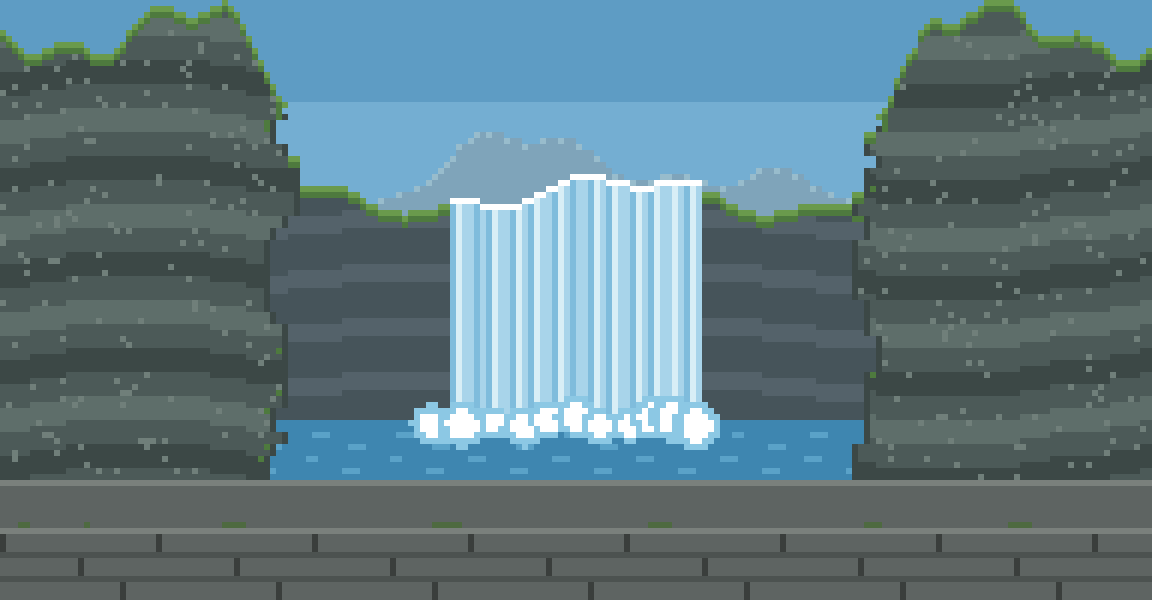
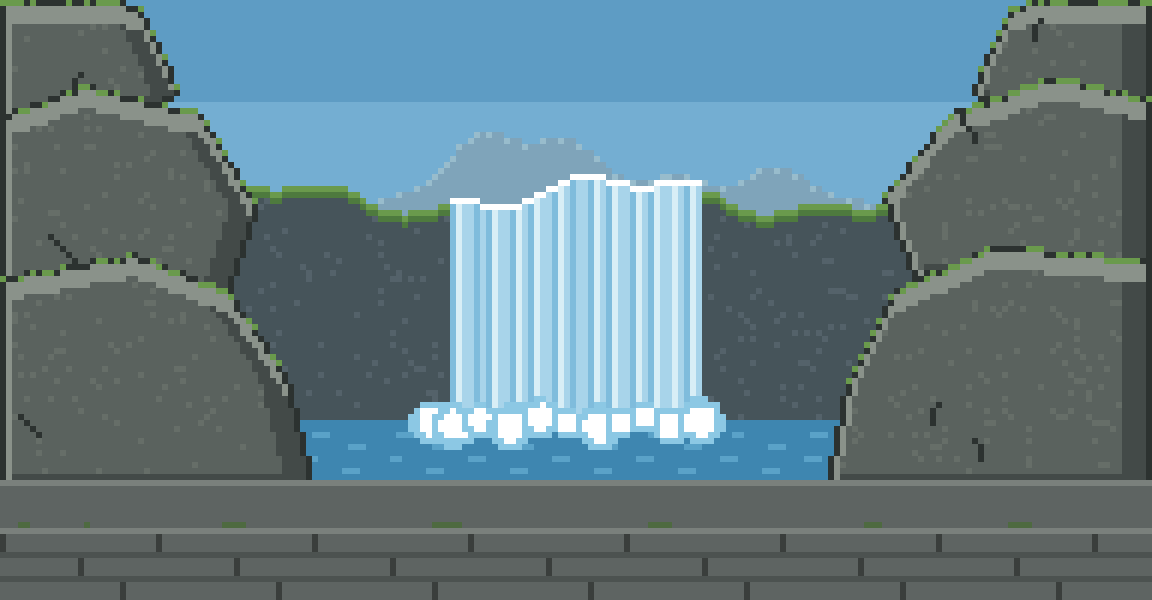
Waterfall stage: replace striped cliffs with stacked faceted boulders

diff --git a/tools/gen_stages.py b/tools/gen_stages.py
@@ -467,7 +467,7 @@ def waterfall(W, H):
     s = Stage(W, H, {
         "0": "5E9CC4", "1": "74AED2", "2": "8CC0DE", "3": "A6D2EA",        # day sky
         "f": "7FA4BA", "F": "98BCCC",                                       # distant mountains
-        "c": "4C5A58", "C": "5E6E6A", "k": "3C4846", "K": "707F7A",          # cliff strata
+        "c": "5A625E", "C": "666E68", "D": "434A48", "k": "2C3230", "K": "8A928A",   # rock: mid / texture / shade / seam / lit
         "g": "4E7A3E", "G": "6A9A4C",                                       # moss / grass
         "b": "46545A", "B": "54626A",                                       # back cliff behind the falls
         "w": "D8EEF6", "W": "A8D4EA", "v": "7FBCDC", "u": "FFFFFF",          # falling water
@@ -481,7 +481,7 @@ def waterfall(W, H):
     for x in range(W):
         dx = x / s.sx
         for y in range(s.Y(lip(dx)), s.Y(46)):
-            s.g[y][x] = "B" if ((y + int(2 * math.sin(x * 0.12))) // 3) % 3 == 0 else "b"
+            s.g[y][x] = "B" if rnd.random() < 0.07 else "b"
         s.put(x, s.Y(lip(dx)), "G")
         s.put(x, s.Y(lip(dx)) + 1, "g")
     # waterfall
@@ -511,39 +511,63 @@ def waterfall(W, H):
                     s.put(x, y, "u" if d < r * 0.65 else "o")
         fx += rnd.uniform(2.2, 3.4)
 
-    # framing cliffs: jagged inner edge (random walk), horizontal rock strata
-    def cliff(outer, inner):
-        step = 1 if inner > outer else -1
-        edge = inner
-        for y in range(0, s.Y(52)):
-            if y % 2 == 0:
-                edge = max(min(outer, inner) + 2, min(max(outer, inner) - 2, edge + rnd.choice((-1, 0, 0, 1))))
-            xa, xb = (s.X(outer), s.X(edge)) if step > 0 else (s.X(edge), s.X(outer))
-            for x in range(min(xa, xb), max(xa, xb)):
-                dx = x / s.sx
-                near = abs(dx - edge)                            # lower toward the inner edge
-                if y < s.Y(3 + 2.5 * math.sin(dx * 0.23) + 1.2 * math.sin(dx * 0.71) + max(0, 8 - near) * 0.9):
-                    continue
-                layer = (y + int(3 * math.sin(x * 0.07))) // 4
-                s.g[y][x] = ("c", "C", "c", "k")[layer % 4]
-                if rnd.random() < 0.04:
-                    s.g[y][x] = "K"
-            ex = s.X(edge) - (1 if step > 0 else 0)
-            if s.g[y][ex] in "cCkK":
-                s.put(ex, y, "k")
-            mx = ex - step
-            if 0 <= mx < s.W and s.g[y][mx] in "cCkK" and (y < s.Y(14) or rnd.random() < 0.08):
-                s.put(mx, y, "g")                              # moss on the upper part / ledges
-        # grassy top
-        for x in range(min(s.X(outer), s.X(inner)), max(s.X(outer), s.X(inner))):
-            for y in range(0, s.H):
-                if s.g[y][x] in "cCkK":
-                    s.g[y][x] = "G"
-                    if y + 1 < s.H and s.g[y + 1][x] in "cCkK":
-                        s.g[y + 1][x] = "g"
-                    break
-    cliff(0, 33)
-    cliff(DW, 87)
+    # framing cliffs: stacked angular boulders with lit top facets, shaded sides, dark seams
+    def boulder(pts):
+        """pts in design units; fill polygon with 3-tone faceted shading"""
+        spts = [(px * s.sx, py * s.sy) for px, py in pts]
+        mask = set()
+        ys = [p[1] for p in spts]
+        for y in range(max(0, int(min(ys))), min(s.ground, int(max(ys)) + 1)):
+            yc = y + 0.5
+            xs = []
+            for k in range(len(spts)):
+                (x1, y1), (x2, y2) = spts[k], spts[(k + 1) % len(spts)]
+                if (y1 <= yc < y2) or (y2 <= yc < y1):
+                    xs.append(x1 + (yc - y1) * (x2 - x1) / (y2 - y1))
+            xs.sort()
+            for a, b in zip(xs[0::2], xs[1::2]):
+                for x in range(int(round(a)), int(round(b))):
+                    if 0 <= x < W:
+                        mask.add((x, y))
+        def depth(x, y, dx, dy, lim):
+            n = 0
+            while n < lim and (x + dx * (n + 1), y + dy * (n + 1)) in mask:
+                n += 1
+            return n
+        for (x, y) in mask:
+            edge = not ((x, y - 1) in mask and (x, y + 1) in mask and (x - 1, y) in mask and (x + 1, y) in mask)
+            if edge:
+                col = "k"                                   # outline / seam
+                if (x, y - 1) not in mask and rnd.random() < 0.55:
+                    col = "G"                               # moss on top edges
+            elif depth(x, y, 0, -1, 4) < 1:
+                col = "G"                                   # moss on the very top
+            elif depth(x, y, 0, -1, 4) < 4 or depth(x, y, -1, 0, 3) < 2:
+                col = "K"                                   # lit top / left facet
+            elif depth(x, y, 1, 0, 6) < 5 or depth(x, y, 0, 1, 3) < 2:
+                col = "D"                                   # shaded right / bottom facet
+            else:
+                col = "C" if rnd.random() < 0.06 else "c"
+            s.g[y][x] = col
+        # a couple of cracks
+        cells = sorted(mask)
+        for _ in range(max(1, len(cells) // 900)):
+            x, y = rnd.choice(cells)
+            for _ in range(rnd.randint(3, 7)):
+                if (x, y) in mask and s.g[y][x] in "cCDK":
+                    s.g[y][x] = "k"
+                y += 1; x += rnd.choice((-1, 0, 0, 1))
+
+    left_blocks = [
+        [(-2, 30), (14, 27), (24, 31), (30, 40), (33, 52), (-2, 52)],
+        [(-2, 13), (9, 9), (21, 12), (27, 22), (24, 32), (12, 30), (-2, 33)],
+        [(-2, 0), (6, -2), (15, 1), (19, 10), (12, 14), (-2, 15)],
+    ]
+    right_blocks = [[(DW - x, y) for x, y in reversed(b)] for b in left_blocks]
+    right_blocks[0] = [(DW + 2, 28), (104, 26), (93, 31), (88, 41), (86, 52), (DW + 2, 52)]
+    right_blocks[1] = [(DW + 2, 11), (110, 8), (99, 12), (92, 21), (95, 30), (106, 28), (DW + 2, 31)]
+    for b in left_blocks[::-1] + right_blocks[::-1]:            # top blocks first, lower ones overlap them
+        boulder(b)
     # wet rock ledge
     for y in range(s.Y(51), s.ground):
         s.g[y] = ["s"] * W
